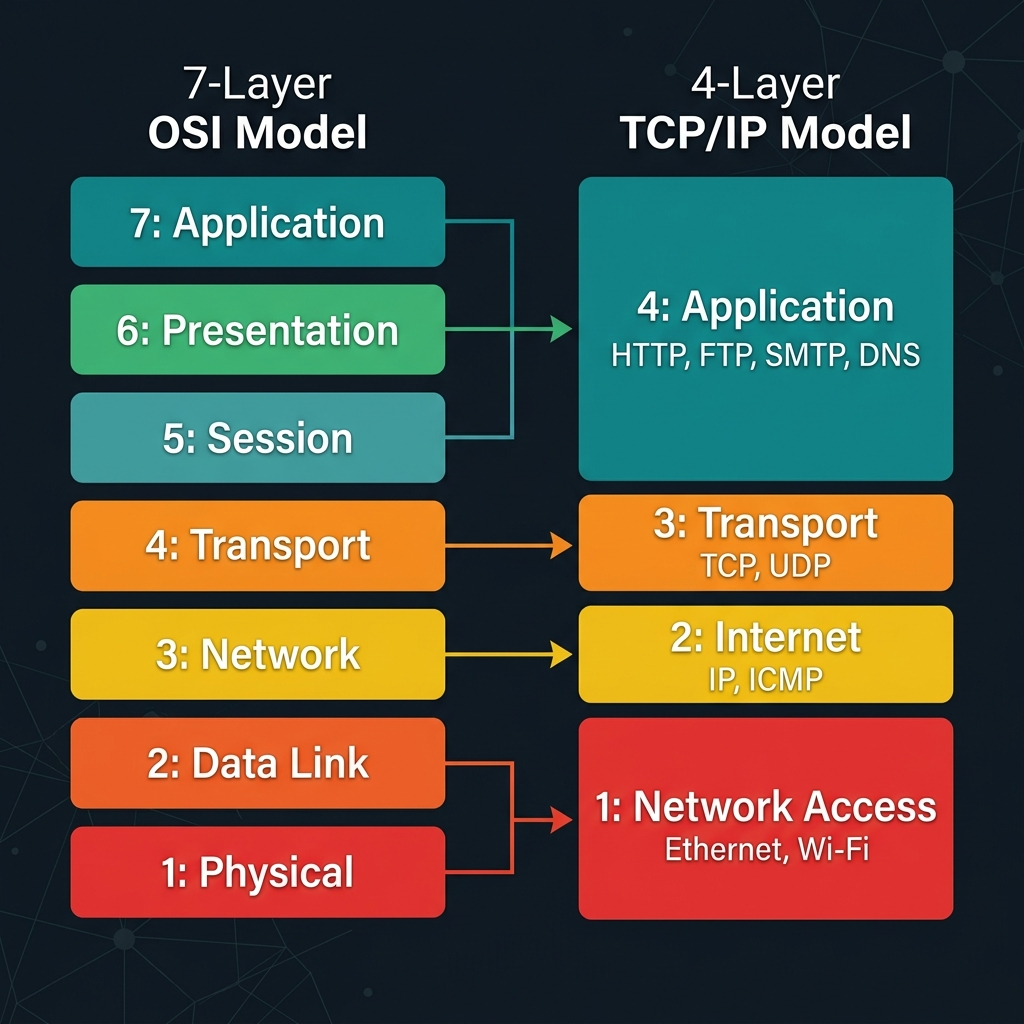
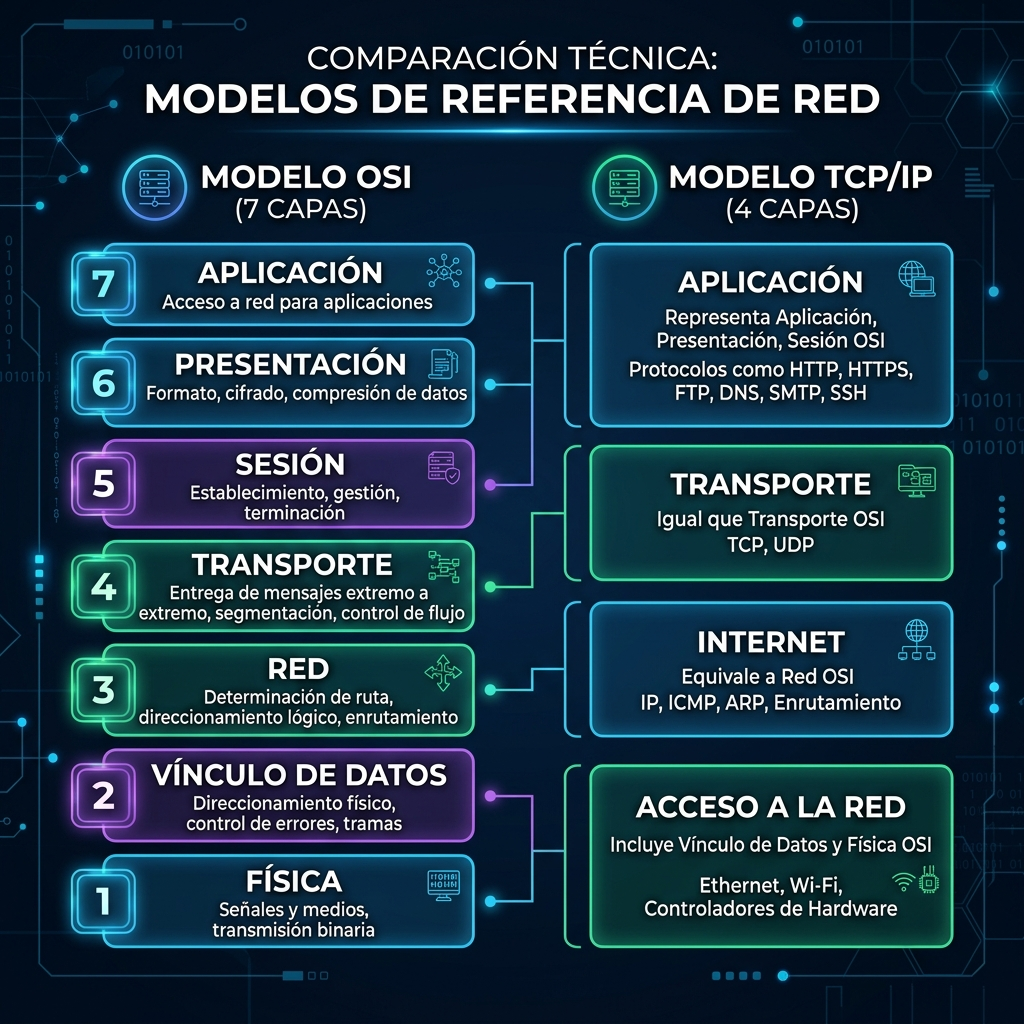
C3 - M1

diff --git a/Curso 3 - Conectar y proteger - Redes y seguridad de las redes/4. El Modelo OSI.md b/Curso 3 - Conectar y proteger - Redes y seguridad de las redes/4. El Modelo OSI.md
@@ -1,0 +1,106 @@
+# El Modelo OSI (Interconexión de Sistemas Abiertos)
+
+En esta lectura, profundizará en el **Modelo OSI (Open Systems Interconnection)**, un marco conceptual estandarizado de **7 capas** que detalla cómo los ordenadores se comunican y envían datos a través de una red.
+
+Mientras que el Modelo TCP/IP de 4 capas ofrece una versión condensada y práctica, el Modelo OSI proporciona una comprensión más detallada y profunda de los procesos que ocurren en cada etapa de la comunicación.
+
+---
+
+## Comparativa: Modelo TCP/IP frente al Modelo OSI
+
+Ambos modelos ayudan a los ingenieros de redes y analistas de seguridad a visualizar los procesos de red y determinar la ubicación exacta de fallos, interrupciones o amenazas de seguridad.
+
+- **Modelo TCP/IP (4 capas):** Concentrado en el conjunto de protocolos clave de Internet.
+- **Modelo OSI (7 capas):** Marco de referencia estandarizado universalmente utilizado para la enseñanza y el diagnóstico detallado.
+
+> **Importante para el Analista de Seguridad:** Algunas organizaciones se estructuran en torno a TCP/IP mientras que otras prefieren OSI. Dominar ambos modelos es indispensable para analizar incidentes y comunicarse eficazmente con otros equipos de TI.
+
+---
+
+## Estructura de las 7 Capas del Modelo OSI
+
+![Las 7 Capas del Modelo OSI](images/osi_7_layers.png)
+
+A continuación, se recorre el modelo **de arriba hacia abajo (Capa 7 a Capa 1)**, desde la interacción directa con el usuario hasta la transmisión física de bits.
+
+```mermaid
+graph TD
+    C7["<b>Capa 7: Aplicación</b><br>HTTP, HTTPS, SMTP, DNS"]
+    C6["<b>Capa 6: Presentación</b><br>Traducción, Formateo, Cifrado SSL/TLS, Compresión"]
+    C5["<b>Capa 5: Sesión</b><br>Autenticación, Puntos de Control, Gestión de Conexión"]
+    C4["<b>Capa 4: Transporte</b><br>Segmentación, Control de Flujo, TCP y UDP"]
+    C3["<b>Capa 3: Red</b><br>Enrutamiento por Direcciones IP, Paquetes"]
+    C2["<b>Capa 2: Vínculo de Datos</b><br>Conmutadores (Switches), NICs, Tramas, HDLC/SDLC"]
+    C1["<b>Capa 1: Física</b><br>Cables, Hubs, Transmisión en bits (0s y 1s)"]
+
+    C7 --> C6
+    C6 --> C5
+    C5 --> C4
+    C4 --> C3
+    C3 --> C2
+    C2 --> C1
+```
+
+---
+
+## Desglose Detallado de las Capas
+
+### Capa 7: Capa de aplicación *(Application Layer)*
+Es la capa de interacción directa con el usuario final y las aplicaciones de software.
+- **Función principal:** Proporciona los protocolos de red que permiten a las aplicaciones conectar al usuario con Internet.
+- **Ejemplos:**
+  - **Navegadores web:** Utilizan **HTTP/HTTPS** para intercambiar información con servidores web.
+  - **Clientes de correo:** Utilizan **SMTP** para enviar y recibir correos electrónicos.
+  - **DNS:** Traduce nombres de dominio legibles (ej. `google.com`) en direcciones IP.
+
+### Capa 6: Capa de presentación *(Presentation Layer)*
+Se encarga de preparar y formatear los datos para que puedan ser interpretados por la capa de aplicación o por el sistema receptor.
+- **Funciones principales:** Traducción de formatos, compresión de datos y cifrado/descifrado de seguridad.
+- **Ejemplo:** **SSL/TLS**, que cifra los datos intercambiados entre un navegador y un servidor web (sitios HTTPS).
+
+### Capa 5: Capa de sesión *(Session Layer)*
+Gestiona el inicio, mantenimiento y finalización de las conexiones (sesiones) entre dos dispositivos.
+- **Funciones principales:** Autenticación, reconexión y establecimiento de **puntos de control** durante la transferencia de datos.
+- **Utilidad:** Si la conexión se interrumpe, los puntos de control permiten reanudar la transmisión desde el último punto registrado en lugar de iniciar desde cero.
+
+### Capa 4: Capa de transporte *(Transport Layer)*
+Es responsable de la entrega eficiente y confiable de datos entre dispositivos.
+- **Funciones principales:** Control del flujo de datos, regulación de la velocidad de transferencia y **segmentación** (división de transmisiones grandes en trozos pequeños para su posterior reensamblaje).
+- **Protocolos clave:** **TCP** (orientado a conexión, confiable) y **UDP** (sin conexión, rápido).
+
+### Capa 3: Capa de red *(Network Layer)*
+Supervisa la entrega de paquetes entre diferentes redes a través del enrutamiento.
+- **Funciones principales:** Asignación de direcciones IP (origen y destino) y selección de la mejor ruta a través de routers.
+- **Elemento clave:** **Paquetes de datos** y direccionamiento IP.
+
+### Capa 2: Capa de vínculo de datos *(Data Link Layer)*
+Organiza y gestiona la transferencia de datos dentro de una misma red local (LAN).
+- **Dispositivos clave:** Conmutadores *(Switches)* y tarjetas de interfaz de red *(NICs)*.
+- **Protocolos comunes:** NCP, HDLC, SDLC y resolución de direcciones MAC.
+
+### Capa 1: Capa física *(Physical Layer)*
+Corresponde al hardware y medios físicos involucrados en la transmisión de datos.
+- **Componentes:** Cables Ethernet, fibra óptica, concentradores *(Hubs)* y módems.
+- **Función:** Convierte los paquetes de datos en un flujo de **bits (0s y 1s)** enviados a través del medio físico.
+
+---
+
+## Tabla Resumen del Modelo OSI
+
+| Capa | Nombre | Unidad de Datos | Dispositivos / Protocolos Principales |
+| :---: | :--- | :--- | :--- |
+| **7** | **Aplicación** | Datos | HTTP, HTTPS, SMTP, DNS, FTP, SSH |
+| **6** | **Presentación** | Datos | SSL/TLS, JPEG, ASCII, Cifrado/Compresión |
+| **5** | **Sesión** | Datos | NetBIOS, RPC, Puntos de control de sesión |
+| **4** | **Transporte** | Segmentos | TCP, UDP |
+| **3** | **Red** | Paquetes | IP (IPv4/IPv6), ICMP, Routers |
+| **2** | **Vínculo de Datos** | Tramas | Switches, NICs, ARP, Ethernet, HDLC |
+| **1** | **Física** | Bits (0s/1s) | Cables, Hubs, Módems, Señales físicas |
+
+---
+
+## Claves del Tema
+
+- **Propósito conceptual:** Tanto TCP/IP como OSI ayudan a diseñar, diagnosticar y documentar procesos de red.
+- **7 Capas:** El modelo OSI desglosa con mayor detalle el proceso de comunicación en comparación con las 4 capas de TCP/IP.
+- **Uso en Ciberseguridad:** Los profesionales utilizan el modelo OSI para aislar componentes vulnerables, identificar el vector de ataque y aplicar mitigaciones específicas en la capa afectada.

diff --git a/Curso 3 - Conectar y proteger - Redes y seguridad de las redes/5. Componentes de la capa de red.md b/Curso 3 - Conectar y proteger - Redes y seguridad de las redes/5. Componentes de la capa de red.md
@@ -1,0 +1,91 @@
+# Componentes de la Capa de Red de Comunicación
+
+En esta lectura, profundizará en las operaciones que se llevan a cabo en la **Capa 3 del Modelo OSI (Capa de Red)**, analizando cómo se direccionan, empaquetan y enrutan los datos a través de Internet.
+
+---
+
+## Operaciones en la Capa de Red
+
+La **capa de red** organiza el direccionamiento y la entrega de paquetes de datos desde el dispositivo de origen *(host)* hasta el dispositivo de destino. Este proceso implica guiar los paquetes de un router a otro a través de la infraestructura de red hasta alcanzar la dirección IP *(Internet Protocol)* del destinatario.
+
+### Conceptos Clave de Enrutamiento:
+- **Dirección IP de destino:** Contenida en la cabecera de cada paquete, le indica a los routers hacia dónde enviar la información y se registra en sus **tablas de enrutamiento**.
+- **Paquete IP vs. Datagrama:**
+  - **Paquete IP:** Denominación utilizada cuando se opera sobre conexiones **TCP**.
+  - **Datagrama:** Denominación utilizada cuando se opera sobre conexiones **UDP**.
+- **Información del Encabezado (Header):** Además del destino, incluye la dirección IP de origen, la longitud total, el tiempo de vida (TTL) y el protocolo de la capa superior.
+
+---
+
+## Formato de un Paquete IPv4
+
+Un paquete IPv4 está dividido conceptualmente en dos secciones principales:
+
+1. **Cabecera (Header):** Contiene la información de control y enrutamiento. Su tamaño oscila entre **20 y 60 bytes** (20 bytes fijos de campos obligatorios + hasta 40 bytes opcionales).
+2. **Cuerpo de Datos (Payload):** Transporta la información real de la aplicación (contenido web, correo electrónico, archivos). El tamaño máximo de un paquete IPv4 completo (cabecera + datos) es de **65,535 bytes**.
+
+![Estructura de la Cabecera de Paquete IPv4](images/ipv4_header.png)
+
+---
+
+## Los 13 Campos del Encabezado IPv4
+
+La cabecera de un paquete IPv4 contiene **13 campos esenciales**:
+
+| Campo | Nombre Corto | Tamaño | Descripción |
+| :--- | :---: | :---: | :--- |
+| **1. Versión** | `VER` | 4 bits | Indica la versión del protocolo IP utilizada (ej. IPv4 = `4`). |
+| **2. Longitud del Encabezado** | `HLEN` / `IHL` | 4 bits | Indica dónde termina la cabecera y dónde empiezan los datos reales. |
+| **3. Tipo de Servicio** | `ToS` / `DSCP` | 8 bits | Permite a los routers priorizar el tráfico para mantener la Calidad de Servicio (QoS). |
+| **4. Longitud Total** | `Total Length` | 16 bits | Muestra el tamaño completo del paquete (cabecera + datos) en bytes (máx. 65,535 B). |
+| **5. Identificación** | `ID` | 16 bits | Identificador único para reensamblar paquetes que han sido fragmentados en tránsito. |
+| **6. Banderas** | `Flags` | 3 bits | Indican si el paquete ha sido fragmentado y si hay más fragmentos en camino. |
+| **7. Desplazamiento de Fragmento** | `Fragment Offset` | 13 bits | Indica la posición exacta del fragmento dentro del paquete original. |
+| **8. Tiempo de Vida** | `TTL` | 8 bits | Contador que disminuye en 1 con cada router que atraviesa. Si llega a 0, el paquete se descarta y se envía un mensaje de error ICMP `Time Exceeded`. |
+| **9. Protocolo** | `Protocol` | 8 bits | Especifica qué protocolo de la capa superior gestiona los datos (ej. TCP = `6`, UDP = `17`, ICMP = `1`). |
+| **10. Suma de Comprobación** | `Header Checksum` | 16 bits | Código de verificación de errores para detectar corrupción en la cabecera durante el tránsito. |
+| **11. IP de Origen** | `Source IP` | 32 bits (4 B) | Dirección IPv4 del emisor del paquete. |
+| **12. IP de Destino** | `Destination IP` | 32 bits (4 B) | Dirección IPv4 del receptor del paquete. |
+| **13. Opciones** | `Options` | 0 - 40 B | Campo opcional utilizado para pruebas de diagnóstico, seguridad o enrutamiento específico. |
+
+---
+
+## Diferencias entre IPv4 e IPv6
+
+El crecimiento masivo de dispositivos conectados a Internet provocó el **agotamiento de direcciones IPv4**, lo que impulsó el desarrollo de **IPv6**.
+
+![Comparativa de Cabeceras IPv4 e IPv6](images/ipv4_vs_ipv6_header.png)
+
+### Tabla Comparativa IPv4 vs. IPv6
+
+| Característica | IPv4 | IPv6 |
+| :--- | :--- | :--- |
+| **Longitud de Dirección** | 32 bits (4 bytes) | 128 bits (16 bytes) |
+| **Espacio de Direcciones** | ~4,300 millones ($4.3 \times 10^9$) | ~340 undecillones ($3.4 \times 10^{38}$) |
+| **Formato de Dirección** | Decimal punteado (ej. `198.51.100.0`) | Hexadecimal separado por dos puntos (ej. `2002:0db8::ff21:0023:1234`) |
+| **Abreviación de ceros** | No permitida | Permite compresión con `::` |
+| **Tamaño de Cabecera** | Variable (20 a 60 bytes) | Fijo (40 bytes) |
+| **Simplificación de Cabecera** | Incluye `IHL`, `ID`, `Flags`, `Checksum` | Elimina campos innecesarios e introduce **Etiqueta de Flujo** *(Flow Label)* |
+| **Seguridad y Eficiencia** | Colisiones de direcciones privadas comunes | Enrutamiento más eficiente, soporte nativo para IPsec y sin colisiones de IP privada |
+
+> **Nota sobre sintaxis IPv6:** Los bloques consecutivos de ceros se pueden comprimir usando `::`. 
+> Ejemplo completo: `2002:0db8:0000:0000:0000:ff21:0023:1234` $\rightarrow$ Comprimido: `2002:0db8::ff21:0023:1234`.
+
+---
+
+## Relevancia para la Ciberseguridad
+
+Para un analista de seguridad, inspeccionar los campos de un paquete IP permite:
+
+- **Identificar el origen real o suplantado (IP Spoofing):** Comparar la IP de origen con los registros de red.
+- **Analizar anomalías en TTL:** Valores inusuales de TTL pueden indicar ataques de amplificación o técnicas de evasión de IDS/IPS.
+- **Verificar protocolos no autorizados:** Detectar tráfico malicioso inspeccionando el campo `Protocol`.
+- **Detectar fragmentación maliciosa:** Evitar ataques de evasión por solapamiento de fragmentos (*Teardrop attack*).
+
+---
+
+## Puntos Clave
+
+1. **Función de la Capa 3:** Direccionar paquetes entre distintas redes utilizando routers e IP.
+2. **Estructura IPv4:** Cabecera de 20-60 bytes con 13 campos clave y carga de datos de hasta 65,535 bytes.
+3. **Evolución a IPv6:** Direcciones de 128 bits que resuelven el agotamiento de IPv4 con un encabezado simplificado de 40 bytes fijos.

diff --git a/Curso 3 - Conectar y proteger - Redes y seguridad de las redes/3. El Modelo TCP-IP y el Modelo OSI.md b/Curso 3 - Conectar y proteger - Redes y seguridad de las redes/3. El Modelo TCP-IP y el Modelo OSI.md
@@ -28,25 +28,33 @@ El Modelo TCP/IP consta de **cuatro capas**:
 ## Capas del Modelo TCP/IP y sus Protocolos
 
 ### 1. Capa de acceso a la red *(Network Access Layer)*
+
 A veces denominada capa de vínculo de datos o capa física/enlace, se ocupa de la creación de paquetes de datos y su transmisión a través de la red física.
+
 - **Hardware asociado:** Concentradores (hubs), módems, cables y cableado físico.
-- **Protocolo clave:** 
+- **Protocolo clave:**
   - **ARP (Address Resolution Protocol):** Dado que las direcciones MAC identifican a los hosts en la misma red física, ARP asigna direcciones IP a direcciones MAC para permitir la comunicación local.
 
 ### 2. Capa de Internet *(Internet Layer)*
+
 A veces denominada capa de red, es responsable de garantizar la entrega de paquetes al host de destino, incluso si reside en una red diferente. Asigna direcciones IP (origen y destino) y determina qué protocolo entregará los paquetes.
+
 - **Protocolos clave:**
   - **IP (Internet Protocol):** Envía paquetes de datos al destino correcto. Se apoya en TCP o UDP para entregarlos al servicio correspondiente. Permite la comunicación entre distintas redes.
   - **ICMP (Internet Control Message Protocol):** Comparte información sobre errores y estado de los paquetes. Es vital para detectar y solucionar problemas de red (paquetes perdidos, fallos de conectividad, redirecciones).
 
 ### 3. Capa de transporte *(Transport Layer)*
+
 Es responsable de la entrega de datos entre dos sistemas o redes e incluye controles sobre el flujo de tráfico.
+
 - **Protocolos clave:**
   - **TCP (Transmission Control Protocol):** Protocolo orientado a la conexión que permite a dos dispositivos establecer un enlace y transmitir datos de forma fiable. Utiliza números de puerto de servicio especificados en el encabezado TCP y retransmite datos perdidos o corruptos.
   - **UDP (User Datagram Protocol):** Protocolo **no** orientado a la conexión. No realiza seguimiento exhaustivo ni verifica el estado de entrega. Se utiliza en aplicaciones sensibles al rendimiento en tiempo real (ej. transmisión de video o streaming).
 
 ### 4. Capa de aplicación *(Application Layer)*
+
 Equivale a la combinación de las capas de Aplicación, Presentación y Sesión del modelo OSI. Define a qué servicios y aplicaciones puede acceder el usuario y determina cómo interactúan los datos con las aplicaciones receptoras.
+
 - **Protocolos clave:**
   - **HTTP** *(Hypertext Transfer Protocol)*
   - **SMTP** *(Simple Mail Transfer Protocol)*
@@ -62,41 +70,14 @@ Equivale a la combinación de las capas de Aplicación, Presentación y Sesión 
 
 El modelo OSI organiza visualmente los protocolos de red en **7 capas**, mientras que el modelo TCP/IP es una versión más simplificada y práctica de **4 capas**.
 
-### Comparativa Visual de Capas (Mermaid)
-
-```mermaid
-graph TD
-    subgraph Modelo OSI (7 Capas)
-        O7[7. Aplicación]
-        O6[6. Presentación]
-        O5[5. Sesión]
-        O4[4. Transporte]
-        O3[3. Red]
-        O2[2. Enlace de Datos]
-        O1[1. Física]
-    end
-
-    subgraph Modelo TCP/IP (4 Capas)
-        T4[4. Aplicación]
-        T3[3. Transporte]
-        T2[2. Internet]
-        T1[1. Acceso a la Red]
-    end
-
-    O7 & O6 & O5 --> T4
-    O4 --> T3
-    O3 --> T2
-    O2 & O1 --> T1
-```
-
 ### Tabla de Correspondencia
 
-| Modelo OSI (7 Capas) | Modelo TCP/IP (4 Capas) | Protocolos Comunes |
-| :--- | :--- | :--- |
-| **7. Aplicación**<br>**6. Presentación**<br>**5. Sesión** | **4. Capa de Aplicación** | HTTP, HTTPS, SSH, FTP, SMTP, DNS, DHCP |
-| **4. Transporte** | **3. Capa de Transporte** | TCP, UDP |
-| **3. Red** | **2. Capa de Internet** | IP (IPv4/IPv6), ICMP, IPsec |
-| **2. Enlace de Datos**<br>**1. Física** | **1. Capa de Acceso a la Red** | Ethernet, Wi-Fi (802.11), ARP, Hardware (Hubs, cables) |
+| Modelo OSI (7 Capas)                                                   | Modelo TCP/IP (4 Capas)              | Protocolos Comunes                                     |
+| :--------------------------------------------------------------------- | :----------------------------------- | :----------------------------------------------------- |
+| **7. Aplicación****6. Presentación****5. Sesión** | **4. Capa de Aplicación**     | HTTP, HTTPS, SSH, FTP, SMTP, DNS, DHCP                 |
+| **4. Transporte**                                                | **3. Capa de Transporte**      | TCP, UDP                                               |
+| **3. Red**                                                       | **2. Capa de Internet**        | IP (IPv4/IPv6), ICMP, IPsec                            |
+| **2. Enlace de Datos****1. Física**                       | **1. Capa de Acceso a la Red** | Ethernet, Wi-Fi (802.11), ARP, Hardware (Hubs, cables) |
 
 ---
 
